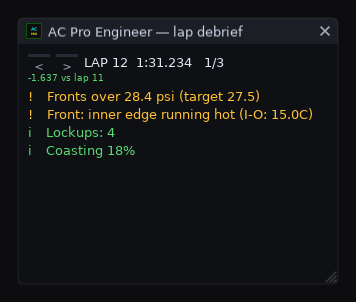
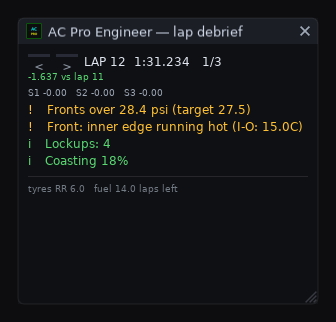
feat(overlay): sectors, what is left, and the tyre's edges
Everything that was on the 0.3.6 list and touches the frame, done in one pass
rather than a field at a time. Each change to this struct costs every Linux
driver a bridge update, and three of those in a row is three chances to end up
beside a panel that waits forever. Frame version stays 6; it is 2480 bytes.

- **Sector times against the session's best**, in the debrief. Four tenths
  spread across a lap is a shrug; four tenths in sector three is a corner to go
  and look at. The best each sector has been is theoretical — the best first and
  the best third need not be the same lap, which is the comparison a driver
  makes anyway. A sector that *is* the best shows its own time: "-0.00" is
  arithmetically true and reads as a rounding error.
- **Laps of tyre life and fuel** under the debrief, coloured by whichever runs
  out first. Both numbers were already computed and only ever reached the
  terminal.
- **Inner / middle / outer tyre temperatures** under each corner of the panel.
  The middle one has been going across since the first frame; it says how hot
  the tyre is and cannot say whether it is leaning the right way, which is the
  reading the camber advice is made of. Coloured by the spread rather than the
  heat, because a tyre can be in its window and still riding on one edge. Off by
  default — it is a third line under a corner readout, and not everyone wants
  one.
- **The debrief scrolls.** Eight lines plus a header plus sectors do not fit a
[…]

diff --git a/core/src/overlay/frame.rs b/core/src/overlay/frame.rs
@@ -70,6 +70,10 @@ pub const DEBRIEF_LINES: usize = 8;
 /// `debrief_0_0` .. `debrief_2_3` and the index arithmetic lives in one place.
 pub const DEBRIEF_SLOTS: usize = DEBRIEF_LAPS * DEBRIEF_LINES;
 
+/// Sectors per lap. AC's own tracks are almost all three, and the shared
+/// memory carries three regardless of what the track actually has.
+pub const SECTORS: usize = 3;
+
 /// Room for the application's version string, e.g. `0.3.4`. NUL-padded.
 ///
 /// Sixteen rather than eight: a prerelease tag like `0.4.0-beta.10` is
@@ -195,6 +199,34 @@ pub struct OverlayFrame {
     /// The debrief itself: lap `l` line `n` is at `l * DEBRIEF_LINES + n`.
     /// UTF-8, NUL-padded, truncated on a character boundary.
     pub debrief: [[u8; MESSAGE_BYTES]; DEBRIEF_SLOTS],
+
+    // --- everything a debrief is read *alongside* --------------------------
+    //
+    // Appended in one go rather than a field at a time across releases: each
+    // change to this struct costs every Linux driver a bridge update, and
+    // three of those in a row for three small features is three chances to
+    // end up with a panel that waits forever.
+    /// Sector times for each published lap, `lap * SECTORS + sector`, in
+    /// milliseconds. Zero for a sector the game never timed.
+    pub debrief_sector_ms: [u32; DEBRIEF_LAPS * SECTORS],
+
+    /// The best each sector has been this session, for the debrief to measure
+    /// against. Theoretical rather than achieved — it is the comparison a
+    /// driver makes anyway, and "you lost 0.4 in sector three" is worth more
+    /// than the same four tenths spread across a lap.
+    pub best_sector_ms: [u32; SECTORS],
+
+    /// Inner and outer tyre surface temperatures. The middle one has always
+    /// been [`Self::tyre_temp_c`]; without the other two the panel could show
+    /// how hot a tyre is and not whether it is leaning the right way, which is
+    /// the reading the camber advice is made of.
+    pub tyre_temp_inner_c: [f32; 4],
+    pub tyre_temp_outer_c: [f32; 4],
+
+    /// Laps of life left in each tyre at the current rate. Negative means not
+    /// measured yet — a stint has to be under way before a rate exists, and
+    /// zero is a real answer meaning the tyre is finished.
+    pub tyre_laps_remaining: [f32; 4],
 }
 
 /// One finished lap and what the engineer made of it, ready for the frame.
@@ -207,6 +239,8 @@ pub struct OverlayFrame {
 pub struct DebriefLap {
     pub lap_number: u32,
     pub lap_time_ms: u32,
+    /// The lap's sectors, in milliseconds. Zero for one the game never timed.
+    pub sectors: [u32; SECTORS],
     pub advice: Vec<Recommendation>,
 }
 
@@ -297,6 +331,11 @@ impl OverlayFrame {
             debrief_line_count: [0; DEBRIEF_LAPS],
             debrief_severity: [0; DEBRIEF_SLOTS],
             debrief: [[0; MESSAGE_BYTES]; DEBRIEF_SLOTS],
+            debrief_sector_ms: [0; DEBRIEF_LAPS * SECTORS],
+            best_sector_ms: [0; SECTORS],
+            tyre_temp_inner_c: [0.0; 4],
+            tyre_temp_outer_c: [0.0; 4],
+            tyre_laps_remaining: [-1.0; 4],
         }
     }
 
@@ -385,6 +424,21 @@ impl OverlayFrame {
         }
 
         self.debrief_lap_count = taken as u32;
+    }
+
+    /// Sector times for the published laps, and the best each has been.
+    ///
+    /// Separate from `set_debrief` because they come from a different place:
+    /// the advice is the engineer's, these are the analyser's, and a caller
+    /// that has one does not always have the other.
+    pub fn set_sectors(&mut self, laps: &[DebriefLap], best: [u32; SECTORS]) {
+        self.debrief_sector_ms = [0; DEBRIEF_LAPS * SECTORS];
+        for (lap_index, lap) in laps.iter().take(DEBRIEF_LAPS).enumerate() {
+            for sector in 0..SECTORS {
+                self.debrief_sector_ms[lap_index * SECTORS + sector] = lap.sectors[sector];
+            }
+        }
+        self.best_sector_ms = best;
     }
 
     /// Fill in the parts that come from the session rather than from physics.
@@ -570,6 +624,26 @@ const FIELDS: &[(&str, &str)] = &[
     ("debrief_2_5", "ac.StructItem.string(64)"),
     ("debrief_2_6", "ac.StructItem.string(64)"),
     ("debrief_2_7", "ac.StructItem.string(64)"),
+    (
+        "debrief_sector_ms",
+        "ac.StructItem.array(ac.StructItem.uint32(), 9)",
+    ),
+    (
+        "best_sector_ms",
+        "ac.StructItem.array(ac.StructItem.uint32(), 3)",
+    ),
+    (
+        "tyre_temp_inner_c",
+        "ac.StructItem.array(ac.StructItem.float(), 4)",
+    ),
+    (
+        "tyre_temp_outer_c",
+        "ac.StructItem.array(ac.StructItem.float(), 4)",
+    ),
+    (
+        "tyre_laps_remaining",
+        "ac.StructItem.array(ac.StructItem.float(), 4)",
+    ),
 ];
 
 /// How many bytes an `ac.StructItem` declaration occupies.
@@ -648,6 +722,10 @@ mod tests {
         let debrief_counters = 4 + DEBRIEF_LAPS * 3 * 4;
         let debrief_severities = DEBRIEF_SLOTS * 4;
         let debrief_text = DEBRIEF_SLOTS * MESSAGE_BYTES;
+        // Sector times per lap, the session's best sectors, the two tyre
+        // surface temperatures the middle one was always missing, and the wear
+        // projection.
+        let alongside = (DEBRIEF_LAPS * SECTORS + SECTORS) * 4 + (4 + 4 + 4) * 4;
         assert_eq!(
             size_of::<OverlayFrame>(),
             scalars
@@ -658,6 +736,7 @@ mod tests {
                 + debrief_counters
                 + debrief_severities
                 + debrief_text
+                + alongside
         );
 
         // Everything new goes after `app_version`, never before it: a field
@@ -728,11 +807,13 @@ mod tests {
                 DebriefLap {
                     lap_number: 7,
                     lap_time_ms: 91_234,
+                    sectors: [0; crate::overlay::frame::SECTORS],
                     advice: vec![advice_at("newest", Severity::Critical)],
                 },
                 DebriefLap {
                     lap_number: 6,
                     lap_time_ms: 92_000,
+                    sectors: [0; crate::overlay::frame::SECTORS],
                     advice: vec![advice_at("older", Severity::Info)],
                 },
             ],
@@ -762,6 +843,7 @@ mod tests {
             &[DebriefLap {
                 lap_number: 1,
                 lap_time_ms: 1,
+                sectors: [0; crate::overlay::frame::SECTORS],
                 advice: vec![advice("one"), advice("two"), advice("three")],
             }],
             2,
@@ -783,6 +865,7 @@ mod tests {
             &[DebriefLap {
                 lap_number: 4,
                 lap_time_ms: 1,
+                sectors: [0; crate::overlay::frame::SECTORS],
                 advice: vec![advice("stale")],
             }],
             DEBRIEF_LINES,
@@ -803,6 +886,7 @@ mod tests {
             .map(|index| DebriefLap {
                 lap_number: index as u32,
                 lap_time_ms: 1,
+                sectors: [0; crate::overlay::frame::SECTORS],
                 advice: vec![advice("line")],
             })
             .collect();
@@ -817,9 +901,10 @@ mod tests {
         // 22 scalars + 4 arrays + MESSAGE_SLOTS messages + their severities +
         // the application's version, then the debrief: its lap count, four
         // arrays alongside it, and one named string per slot.
+        // ... and five more arrays alongside the debrief.
         assert_eq!(
             FIELDS.len(),
-            22 + 4 + MESSAGE_SLOTS + 1 + 1 + 1 + 4 + DEBRIEF_SLOTS
+            22 + 4 + MESSAGE_SLOTS + 1 + 1 + 1 + 4 + DEBRIEF_SLOTS + 5
         );
 
         // The declared types have to add up to the struct's actual size, which

diff --git a/tui/src/lib.rs b/tui/src/lib.rs
@@ -572,9 +572,34 @@ impl AppState {
             .map(|lap| DebriefLap {
                 lap_number: lap.lap_number.max(0) as u32,
                 lap_time_ms: lap.lap_time_ms.max(0) as u32,
+                sectors: [
+                    lap.sectors[0].max(0) as u32,
+                    lap.sectors[1].max(0) as u32,
+                    lap.sectors[2].max(0) as u32,
+                ],
                 advice: ac_core::debrief::debrief(lap, &self.config),
             })
             .collect();
+    }
+
+    /// The best each sector has been this session.
+    ///
+    /// Theoretical: the best first sector and the best third need not have come
+    /// from the same lap, and that is the comparison a driver makes anyway.
+    fn best_sectors(&self) -> [u32; ac_core::overlay::frame::SECTORS] {
+        let mut best = [0u32; ac_core::overlay::frame::SECTORS];
+        for lap in &self.analyzer.laps {
+            for (sector, time) in lap.sectors.iter().enumerate() {
+                if *time <= 0 {
+                    continue;
+                }
+                let time = *time as u32;
+                if best[sector] == 0 || time < best[sector] {
+                    best[sector] = time;
+                }
+            }
+        }
+        best
     }
 
     /// Ask the release page whether there is a bridge worth taking.
@@ -1275,6 +1300,11 @@ impl AppState {
 
         let mut frame = self.overlay_frame_shell();
 
+        // Computed before the writer is borrowed: `best_sectors` reads the
+        // analyser, and the writer borrow is mutable and covers the rest of
+        // this function.
+        let best_sectors = self.best_sectors();
+
         let Some(writer) = self.overlay_writer.as_mut() else {
             return;
         };
@@ -1326,6 +1356,14 @@ impl AppState {
             &self.overlay_debrief,
             self.config.overlay.debrief_lines as usize,
         );
+        frame.set_sectors(&self.overlay_debrief, best_sectors);
+
+        // The tyre's edges, which the panel needs to show whether a tyre is
+        // leaning the right way rather than only how hot it is — the middle one
+        // has been going across since the first frame.
+        frame.tyre_temp_inner_c = phys.tyre_temp_i;
+        frame.tyre_temp_outer_c = phys.tyre_temp_o;
+        frame.tyre_laps_remaining = self.engineer.stats.tyre_laps_remaining;
 
         writer.publish(&frame);
     }

diff --git a/core/src/overlay/install.rs b/core/src/overlay/install.rs
@@ -757,6 +757,7 @@ mod tests {
                 crate::overlay::frame::DebriefLap {
                     lap_number: 12,
                     lap_time_ms: 91_234,
+                    sectors: [0; crate::overlay::frame::SECTORS],
                     advice: vec![Recommendation {
                         component: "Tyres".to_string(),
                         category: "Pressure".to_string(),
@@ -770,6 +771,7 @@ mod tests {
                 crate::overlay::frame::DebriefLap {
                     lap_number: 11,
                     lap_time_ms: 92_871,
+                    sectors: [0; crate::overlay::frame::SECTORS],
                     advice: vec![Recommendation {
                         component: "Tyres".to_string(),
                         category: "Temperature".to_string(),

diff --git a/shm-bridge/src/main.rs b/shm-bridge/src/main.rs
@@ -55,7 +55,7 @@ const OVERLAY_FILE: &str = "AcTools.CSP.Limited.ACPE.v1";
 /// telemetry crate to learn one number would be a poor trade. The mapping only
 /// has to be at least struct-sized, so this is checked against the real value
 /// by a test in ac_core rather than kept in step by hand.
-const OVERLAY_FILE_SIZE: usize = 2384;
+const OVERLAY_FILE_SIZE: usize = 2480;
 
 /// Shape of the note this bridge leaves behind — see [`BRIDGE_INFO_FILE`].
 ///

diff --git a/CHANGELOG.md b/CHANGELOG.md
@@ -14,7 +14,7 @@ through and a wheel button to page with.
 
 ### ⚠ Breaking
 
-- **Overlay frame version 6**, 712 bytes to 2384. On Linux this means
+- **Overlay frame version 6**, 712 bytes to 2480. On Linux this means
   **`shm-bridge.exe` has to be updated again**; **[B]** on the launcher's
   overlay card does it. Everything new is appended, so no existing offset moved
   — a panel or bridge one version behind misreads nothing, it simply does not
@@ -39,6 +39,22 @@ through and a wheel button to page with.
   dragged forward.
 - **Eight lines per lap, not four.** A lap can go wrong in more than four ways
   at once, and four slots meant whatever came fifth was silently dropped.
+- **Sector times against the session's best**, in the debrief. Four tenths
+  spread across a lap is a shrug; four tenths in sector three is a corner to go
+  and look at, and a lap time on its own cannot tell them apart. A sector that
+  *is* the best shows its time rather than "-0.00".
+- **What is left, under the debrief**: laps of tyre life in the worst corner and
+  laps of fuel, coloured by whichever runs out first. Both numbers existed and
+  only ever reached the terminal — which is on the other monitor with a helmet
+  in the way.
+- **Inner / middle / outer tyre temperatures** in the panel, under each corner.
+  The middle one has been going across since the first frame and says how hot a
+  tyre is; these three say whether it is leaning the right way, which is the
+  reading the camber advice is made of. Coloured by the spread, not the heat: a
+  tyre can be in its window and still riding on one edge. Off by default.
+- **The debrief window scrolls.** Eight lines plus a header plus sectors do not
+  fit a window sized for four, and the overflow used to be cut off at the bottom
+  edge with nothing to say it had been.
 
 ### 🐞 Fixed
 
@@ -60,6 +76,11 @@ through and a wheel button to page with.
   bridge.
 
 ### 🧱 Under it
+
+- **One frame change, not four.** Sectors, the tyre edges and the wear
+  projection were added in a single pass rather than a field at a time: every
+  change to this struct costs every Linux driver a bridge update, and three of
+  those in a row is three chances to end up beside a panel that waits forever.
 
 - The lap summary is **data now, not five hundred lines of ratatui**:
   `debrief::debrief(&LapData, &AppConfig) -> Vec<Recommendation>`. It lived
